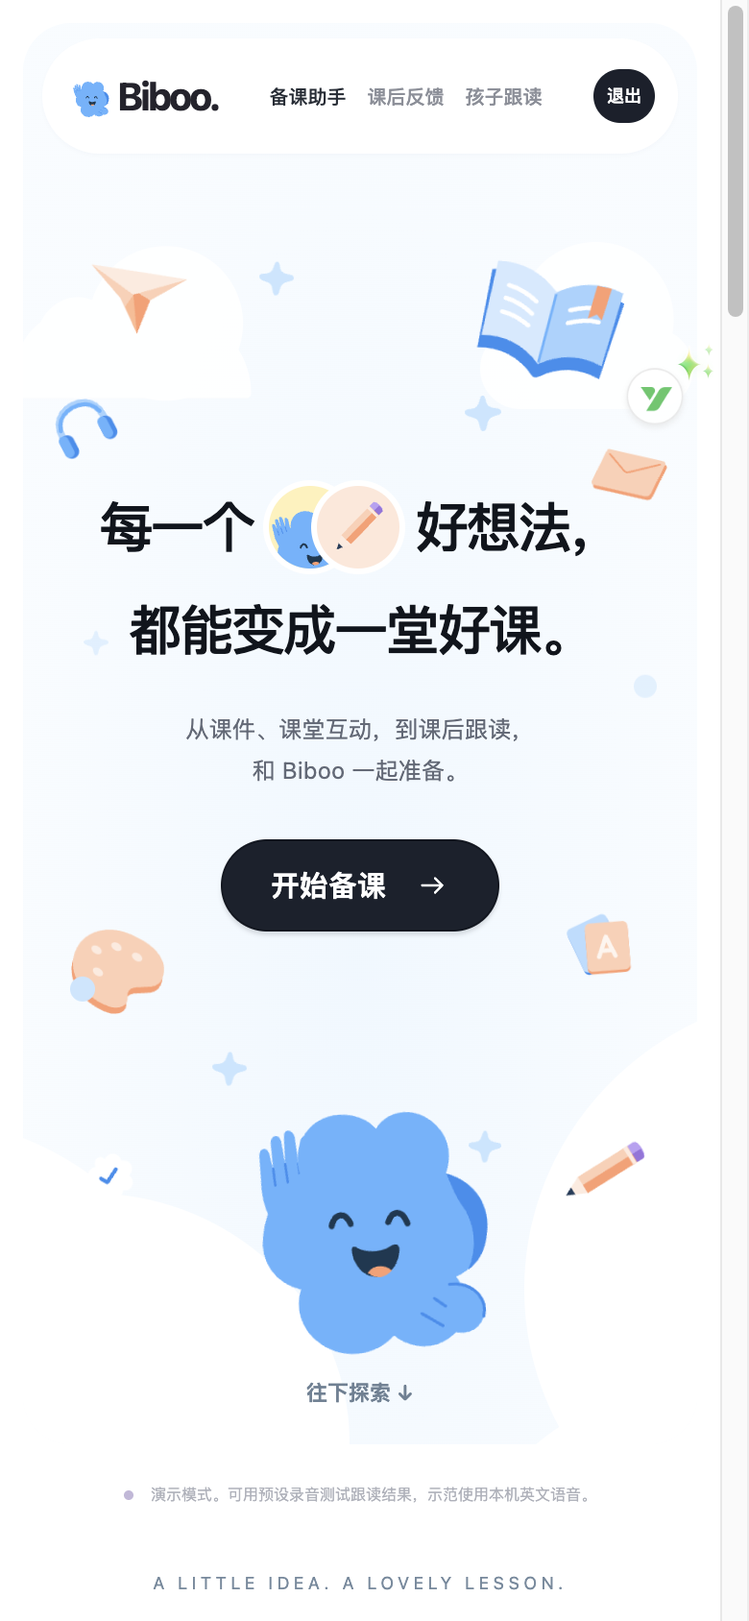
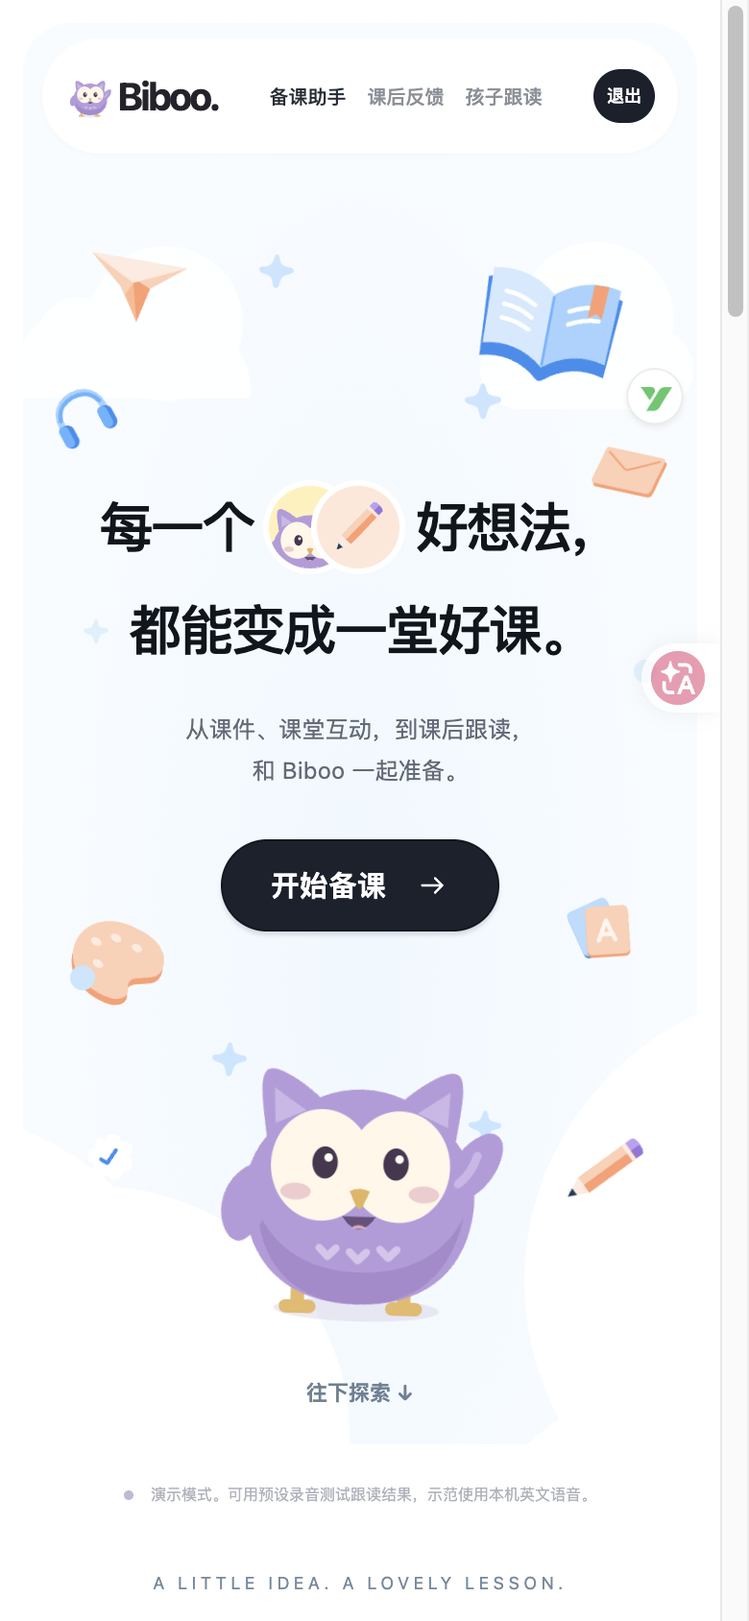
Restore Biboo owl identity while preserving scene interactions

diff --git a/backend/static/index.html b/backend/static/index.html
@@ -2028,7 +2028,7 @@ body.is-studio-home .role-tabs a[aria-current=page] {color:#252c35;background:no
 body.is-studio-home .role-tabs a svg {display:none;}
 body.is-studio-home #mode {position:absolute;top:calc(var(--scene-height) + 20px);right:50%;transform:translateX(50%);z-index:2;font-size:10px;width:max-content;max-width:85%;padding:0;opacity:.8;text-align:center;}
 body.is-studio-home #status:not(:empty) {position:fixed;top:100px;left:50%;transform:translateX(-50%);z-index:20;border-radius:20px;padding:10px 20px;background:#fff;box-shadow:0 5px 30px #1b263510;}
-.scene-hero {--scene-x:0px;--scene-y:0px;--scene-scroll:0px;position:relative;isolation:isolate;min-height:840px;height:var(--scene-height);margin:0;border-radius:32px;background:radial-gradient(ellipse at 50% 65%,#eff8ff 0%,#f8fcff 72%);overflow:hidden;text-align:center;}
+.scene-hero {--scene-x:0px;--scene-y:0px;--scene-scroll:0px;position:relative;isolation:isolate;min-height:840px;height:var(--scene-height);margin:0;border-radius:32px;background:radial-gradient(ellipse at 50% 65%,#eff8ff 0%,#f8fcff 72%);overflow:clip;text-align:center;}
 .scene-copy {position:relative;z-index:3;padding-top:240px;max-width:850px;margin:0 auto;pointer-events:none;}
 .scene-copy h2 {margin:0;color:#10151d;font-size:clamp(40px,3.55vw,52px);font-weight:500;letter-spacing:-1.8px;line-height:1.35;}
 .scene-heading-line {display:flex;align-items:center;justify-content:center;white-space:nowrap;gap:13px;}
@@ -2064,15 +2064,15 @@ body.is-studio-home #status:not(:empty) {position:fixed;top:100px;left:50%;trans
 .scene-star {--float:6px;width:24px;opacity:.75;}.scene-star svg {fill:#b9dfff;}.scene-star-one {left:22%;top:115px;--angle:12deg;--delay:-3s;--depth:.05;}.scene-star-two {right:21%;top:130px;--angle:-10deg;--delay:-1s;--depth:.03;}.scene-star-three {left:12%;top:250px;--angle:16deg;--delay:-5s;--depth:.08;}.scene-star-four {right:36%;bottom:175px;--angle:18deg;--delay:-2s;--depth:.1;}.scene-star-five {left:36%;bottom:110px;--angle:-8deg;--delay:-3s;--depth:.14;}
 .scene-dot {width:20px;height:20px;border-radius:50%;background:#c9e6ff;}.scene-dot-one {left:11.5%;bottom:290px;--depth:.09;}.scene-dot-two {right:12.3%;top:430px;--depth:.11;width:20px;height:20px;}.scene-dot-three {right:15%;top:318px;width:10px;height:10px;--depth:.09;}
 .scene-mascot {--mascot-x:0px;--mascot-y:0px;position:absolute;left:calc(50% - 117px);bottom:100px;width:234px;padding:0;border:0;border-radius:0;background:none;box-shadow:none;z-index:3;transform:translate(var(--mascot-x),calc(var(--mascot-y) + var(--scene-scroll)*.08));cursor:pointer;}
-.scene-mascot:hover,.scene-mascot:active,.scene-mascot:focus-visible {background:none;box-shadow:none;}.scene-mascot svg {width:100%;height:auto;overflow:visible;display:block;}.scene-mascot .mascot-float {display:block;animation:scene-bob 6s ease-in-out infinite;}
-.scene-mascot .scene-wave {transform-box:view-box;transform-origin:88px 144px;animation:scene-wave 4.8s ease-in-out infinite;}
+.scene-mascot:hover,.scene-mascot:active,.scene-mascot:focus-visible {background:none;box-shadow:none;}.scene-mascot svg {width:100%;height:auto;overflow:visible;display:block;}.scene-mascot .buddy-blink {animation:studio-blink 7s ease-in-out -1.7s infinite;}.scene-mascot .mascot-float {display:block;animation:scene-bob 6s ease-in-out infinite;}
+.scene-mascot .scene-wave {transform-box:view-box;transform-origin:155px 104px;animation:scene-wave 4.8s ease-in-out infinite;}
 .scene-mascot .scene-face {transform:translate(var(--face-x,0px),var(--face-y,0px));transition:transform .25s;}
 .scene-mascot.is-hello .scene-wave,.scene-mascot:hover .scene-wave,.scene-mascot:focus-visible .scene-wave {animation:scene-wave-hello .65s ease-in-out infinite;}
 .scene-mascot.is-hello .mascot-float {animation:scene-jump .7s cubic-bezier(.3,.8,.3,1);}
 .scene-mascot-caption {position:absolute;left:50%;bottom:99%;transform:translate(-50%,8px);opacity:0;white-space:nowrap;background:#fff;color:#436a8b;border-radius:18px;padding:9px 15px;font-size:12px;transition:opacity .25s,transform .25s;pointer-events:none;}
 .scene-mascot:hover .scene-mascot-caption,.scene-mascot:focus-visible .scene-mascot-caption,.scene-mascot.is-hello .scene-mascot-caption {opacity:1;transform:translate(-50%,0);}
 .scene-bottom-link {position:absolute;left:50%;bottom:12px;transform:translateX(-50%);z-index:4;background:none;border:0;box-shadow:none;color:#6c8194;font-size:11px;padding:5px 12px;min-height:30px;}.scene-bottom-link:hover {background:#fff;color:#2785ce;}
-.scene-hero.is-motion-paused .prop-float,.scene-hero.is-motion-paused .mascot-float,.scene-hero.is-motion-paused .scene-wave {animation-play-state:paused;}
+.scene-hero.is-motion-paused .prop-float,.scene-hero.is-motion-paused .mascot-float,.scene-hero.is-motion-paused .scene-wave,.scene-hero.is-motion-paused .buddy-blink {animation-play-state:paused;}
 @keyframes scene-drift {0%,100% {transform:translateY(0) rotate(-2deg);}50% {transform:translateY(calc(var(--float)*-1)) rotate(3deg);}}
 @keyframes scene-bob {0%,100% {transform:translateY(0) rotate(-3deg);}50% {transform:translateY(-10px) rotate(2deg);}}
 @keyframes scene-wave {0%,15%,100% {transform:rotate(0deg);}3%,9% {transform:rotate(14deg);}6%,12% {transform:rotate(-11deg);}}
@@ -2091,7 +2091,7 @@ body.is-studio-home #status:not(:empty) {position:fixed;top:100px;left:50%;trans
 @media(max-width:760px) {body.is-studio-home {--scene-height:780px;padding:12px 12px 45px;}body.is-studio-home .sidebar {width:calc(100% - 30px);top:8px;min-height:60px;padding:8px 16px;gap:12px;}body.is-studio-home .role-tabs {margin:0 auto;gap:12px;}body.is-studio-home .role-tabs a {font-size:11px;}body.is-studio-home .sidebar #logout {font-size:10px;padding:5px 10px;min-height:31px;}body.is-studio-home .sidebar .brand strong {font-size:23px;}.scene-hero {min-height:780px;height:780px;border-radius:25px;}.scene-copy {padding-top:255px;max-width:600px;}.scene-copy h2 {font-size:35px;letter-spacing:-1.5px;}.scene-heading-line {gap:8px;}.scene-badges {width:91px;height:58px;margin:0;}.scene-badge {width:58px;height:58px;border-width:4px;}.scene-badge + .scene-badge {margin-left:-25px;}.scene-copy>p {max-width:340px;padding:0 10px;margin:22px auto 27px;font-size:13px;}.scene-primary {min-height:48px;font-size:15px;padding:10px 25px;}.prop-plane {left:9%;top:118px;width:61px;}.prop-book {right:9%;top:120px;width:91px;}.prop-headphones {top:340px;left:2%;width:53px;}.prop-envelope {top:380px;right:2%;width:63px;}.prop-palette {left:10%;top:520px;width:75px;}.prop-card {right:14%;top:500px;width:51px;}.prop-pencil {right:10%;bottom:95px;width:71px;}.prop-check {left:14%;bottom:100px;width:45px;}.scene-star-one {left:35%;top:130px;width:18px;}.scene-star-two {right:29%;top:195px;width:19px;}.scene-star-three {left:8%;top:250px;width:19px;}.scene-star-four {right:29%;bottom:142px;width:17px;}.scene-star-five {left:29%;bottom:198px;width:18px;}.scene-dot-one {left:7%;bottom:230px;width:13px;height:13px;}.scene-dot-two {right:9%;top:320px;width:12px;height:12px;}.scene-dot-three {display:none;}.scene-cloud-small {left:-30px;top:140px;transform:scale(.7);}.scene-cloud-top {right:-35px;top:145px;transform:scale(.6);}.scene-cloud-left {width:300px;height:270px;bottom:-100px;left:-210px;}.scene-cloud-left::before {width:200px;height:190px;left:150px;top:150px;}.scene-cloud-right {width:320px;height:310px;right:-230px;bottom:-75px;}.scene-cloud-right::before {width:210px;height:210px;right:140px;top:210px;}.scene-mascot {width:186px;left:calc(50% - 93px);bottom:44px;}.lesson-workbench {margin:65px auto;padding:0 14px;}.lesson-workbench h2 {font-size:29px;}.lesson-workbench .workbench-lead {font-size:12px;}.lesson-workbench #assistant-prompt {font-size:16px;}.lesson-workbench .assistant-composer {padding:18px 16px 13px;}.lesson-workbench .assistant-examples>span {display:none;}.lesson-workbench .assistant-examples button {font-size:11px;}.lesson-workbench .assistant-help {font-size:10px;}}
 @media(max-width:500px) {body.is-studio-home .sidebar {width:calc(100% - 20px);padding:8px 12px;gap:9px;}body.is-studio-home .sidebar .brand strong {font-size:20px;}.sidebar .brand-mark {width:24px;height:28px;}.sidebar .brand-mark svg {width:26px;height:29px;}body.is-studio-home .role-tabs {gap:11px;}body.is-studio-home .role-tabs a {font-size:10px;}body.is-studio-home .sidebar #logout {font-size:9px;min-height:28px;padding:4px 7px;}body.is-studio-home {--scene-height:740px;}body.is-studio-home #mode {font-size:8px;}.scene-hero {min-height:740px;height:740px;}.scene-copy {padding:238px 10px 0;}.scene-copy h2 {font-size:28px;letter-spacing:-1.2px;}.scene-heading-line {gap:5px;}.scene-heading-line + .scene-heading-line {margin-top:10px;}.scene-badges {width:74px;height:49px;}.scene-badge {width:49px;height:49px;border-width:3px;}.scene-badge + .scene-badge {margin-left:-24px;}.scene-copy>p {max-width:265px;font-size:12px;line-height:1.8;margin:22px auto 25px;}.prop-headphones {left:3%;top:200px;width:43px;}.prop-envelope {right:3%;top:212px;width:47px;}.prop-palette {left:5%;top:465px;width:65px;}.prop-card {right:8%;top:465px;width:45px;}.prop-pencil {right:5%;bottom:100px;width:62px;}.prop-check {left:7%;bottom:110px;width:40px;}.scene-star-three {left:9%;top:320px;width:13px;opacity:.4;}.scene-dot-two {right:6%;top:340px;opacity:.5;}.scene-mascot {width:176px;left:calc(50% - 88px);bottom:36px;}.scene-star-five {left:28%;bottom:180px;}.lesson-workbench {padding:0 7px;}.lesson-workbench h2 {font-size:26px;}.lesson-workbench .workbench-overline {font-size:9px;}.lesson-workbench .workbench-lead {font-size:12px;}.lesson-workbench .composer-tool {font-size:11px;padding:7px 6px;}.lesson-workbench .assistant-submit {font-size:12px;padding:9px 15px;gap:12px;}}
 @media(max-width:360px) {body.is-studio-home .sidebar {gap:5px;padding:8px;}body.is-studio-home .role-tabs {gap:8px;}body.is-studio-home .role-tabs a {font-size:9px;}.sidebar .brand-mark {display:none;}.scene-copy h2 {font-size:25px;}.scene-badges {width:66px;height:43px;}.scene-badge {width:43px;height:43px;}.scene-badge + .scene-badge {margin-left:-20px;}.scene-heading-line {gap:4px;}.lesson-workbench .assistant-examples {gap:5px;}.lesson-workbench .assistant-examples button {font-size:10px;padding:7px 9px;}}
-@media(prefers-reduced-motion:reduce) {.scene-prop .prop-float,.scene-mascot .mascot-float,.scene-mascot .scene-wave {animation:none!important;}.scene-prop,.scene-cloud,.scene-mascot {transform:none!important;}.scene-prop .prop-art,.scene-badge,.scene-primary,.scene-mascot .scene-face,.scene-mascot-caption {transition:none;}.scene-prop:hover .prop-art {transform:rotate(var(--angle));}.scene-primary:hover {transform:none;}.scene-badge:hover {transform:none;}.scene-badge + .scene-badge:hover {transform:rotate(11deg);}}
+@media(prefers-reduced-motion:reduce) {.scene-prop .prop-float,.scene-mascot .mascot-float,.scene-mascot .scene-wave,.scene-mascot .buddy-blink {animation:none!important;}.scene-prop,.scene-cloud,.scene-mascot {transform:none!important;}.scene-prop .prop-art,.scene-badge,.scene-primary,.scene-mascot .scene-face,.scene-mascot-caption {transition:none;}.scene-prop:hover .prop-art {transform:rotate(var(--angle));}.scene-primary:hover {transform:none;}.scene-badge:hover {transform:none;}.scene-badge + .scene-badge:hover {transform:rotate(11deg);}}
 
 .mobile-only {display:none;}@media(max-width:760px){.mobile-only{display:initial;}}
 </style>
@@ -2104,23 +2104,36 @@ body.is-studio-home #status:not(:empty) {position:fixed;top:100px;left:50%;trans
 <symbol id="b-scene-check" viewBox="0 0 200 200"><path d="M100 53C114 33 141 43 141 65C165 65 174 92 154 106C169 126 152 150 130 142C124 164 95 166 87 144C64 153 45 129 60 109C39 96 47 68 72 67C69 44 92 37 100 53Z" fill="#FFF"/><path d="M80 100L94 113L123 84" fill="none" stroke="#318FF0" stroke-width="10" stroke-linecap="round" stroke-linejoin="round"/>
 </symbol>
 
-<symbol id="b-scene-boo" viewBox="0 0 280 260">
- <g class="scene-wave" style="transform-origin:88px 144px"><g transform="translate(88 144) scale(.82) translate(-88 -144)">
- <path d="M91 153C62 145 46 120 41 94L35 70C33 62 40 58 44 65L51 80L44 55C42 47 50 43 54 51L62 73L56 46C54 38 63 36 67 45L75 70L73 49C72 40 81 40 84 49L90 75L96 65C102 57 109 62 105 69L93 93C88 104 94 120 107 126Z" fill="#63B4FF"/>
- <path d="M51 80L56 96M62 73L68 91M75 70L80 86" fill="none" stroke="#318FF0" stroke-width="2.5" stroke-linecap="round"/>
- </g></g>
- <path d="M92 91C86 67 102 44 127 44C140 44 150 49 157 57C169 40 193 41 207 57C218 69 218 84 213 97C237 105 249 126 244 150C241 166 230 178 217 183C231 203 225 226 204 236C189 243 173 238 163 229C146 246 119 247 101 232C87 221 82 203 88 187C67 181 55 162 59 141C62 119 75 102 92 91Z" fill="#63B4FF"/>
- <path d="M213 97C236 105 249 126 244 150C242 163 236 172 227 178C236 161 235 138 224 123C220 117 217 107 213 97Z" fill="#318FF0"/>
- <g class="scene-face" style="transform-origin:153px 144px">
- <path d="M116 136C119 125 128 124 132 135M163 135C167 124 176 126 179 137" fill="none" stroke="#193952" stroke-width="5" stroke-linecap="round"/>
- <path d="M135 154C140 158 153 161 164 155C169 152 172 154 171 160C169 174 158 183 147 179C139 177 133 168 132 160C131 155 132 153 135 154Z" fill="#193952"/>
- <path d="M144 176C149 169 159 170 164 175C158 181 151 182 144 176Z" fill="#FF9E70"/>
- </g>
- <g class="scene-rest-hand" style="transform-origin:206px 198px">
- <path d="M211 189C229 187 243 202 238 217C234 230 219 233 207 226L187 212C181 209 181 202 185 199C189 196 192 198 198 200L190 190C185 182 193 178 199 184L207 192Z" fill="#63B4FF"/>
- <path d="M211 189C229 187 243 202 238 217M187 212L204 223M198 200L207 207" fill="none" stroke="#318FF0" stroke-width="2.5" stroke-linecap="round"/>
- </g>
-</symbol>
+<symbol id="b-scene-boo" viewBox="0 0 200 200">
+      <g class="buddy-body">
+        <ellipse cx="100" cy="176" rx="49" ry="7" fill="#D6C8E5" opacity=".38"/>
+        <path d="M65 164v11m-7 0h14m56-11v11m-7 0h14" fill="none" stroke="#E6B968" stroke-width="8" stroke-linecap="round"/>
+        <path d="M44 75c-2-16-7-38 1-40 6-2 21 8 30 16 16-7 34-7 50 0 9-8 24-18 30-16 8 2 3 24 1 40 10 12 14 29 11 46-5 32-28 52-67 52s-62-20-67-52c-3-17 1-34 11-46Z" fill="#B79BDD"/>
+        <path d="M40 119c11 23 32 35 61 35s51-12 61-35c-6 34-27 54-62 54s-57-20-60-54Z" fill="#A88ACD"/>
+        <path d="m48 46 19 13-18 8m103-21-19 13 18 8" fill="#CDB7E9"/>
+        <path d="M35 92c-16 8-20 27-14 39 3 6 8 8 12 5 8-5 17-21 18-34 1-9-7-15-16-10Z" fill="#B79BDD"/>
+        <g class="buddy-wave scene-wave" style="transform-origin:155px 104px">
+          <path d="M152 98c1-12 10-23 19-27 7-4 13 0 13 7 0 12-11 28-22 31-6 2-11-4-10-11Z" fill="#B79BDD"/>
+          <path d="M169 83c-2 7-6 13-11 17" fill="none" stroke="#CDB7E9" stroke-width="5" stroke-linecap="round"/>
+        </g>
+        <ellipse cx="77" cy="91" rx="30" ry="33" fill="#FFF7E8"/>
+        <ellipse cx="123" cy="91" rx="30" ry="33" fill="#FFF7E8"/>
+        <g class="buddy-blink" style="transform-origin:100px 91px">
+          <g class="buddy-eyes scene-face">
+            <ellipse cx="79" cy="91" rx="7.5" ry="9.5" fill="#483650"/>
+            <ellipse cx="121" cy="91" rx="7.5" ry="9.5" fill="#483650"/>
+            <circle cx="81" cy="88" r="2.5" fill="#FFFEF8"/>
+            <circle cx="123" cy="88" r="2.5" fill="#FFFEF8"/>
+          </g>
+        </g>
+        <ellipse cx="62" cy="107" rx="9" ry="5" fill="#F2CCCF"/>
+        <ellipse cx="138" cy="107" rx="9" ry="5" fill="#F2CCCF"/>
+        <path d="M94 106q6-3 12 0l-4 9q-2 3-4 0Z" fill="#E4B45D"/>
+        <path d="M90 121q10 15 20 0Z" fill="#6A507C"/>
+        <path d="M95 128q5-4 10 0" fill="#E6ACBF"/>
+        <path d="m77 140 5 5 5-5m8 2 5 5 5-5m8-2 5 5 5-5" fill="none" stroke="#D9C4EC" stroke-width="4.5" stroke-linecap="round" stroke-linejoin="round"/>
+      </g>
+    </symbol>
 <symbol id="b-scene-plane" viewBox="0 0 200 200"><path d="M22 37L180 87L112 113L81 166L62 101Z" fill="#FFCFB4"/><path d="M22 37L112 113L81 166L85 99Z" fill="#FF9E70"/><path d="M22 37L85 99L180 87Z" fill="#FFEADF"/><path d="M85 99L81 166L68 117Z" fill="#FFBA91"/>
 </symbol>
 <symbol id="b-scene-book" viewBox="0 0 200 200"><path d="M22 59C47 50 75 55 100 75C125 55 153 50 178 59L172 150C147 143 124 148 104 165C102 167 98 167 96 165C76 148 53 143 28 150Z" fill="#318FF0"/><path d="M26 48C53 42 78 48 100 66L100 151C79 134 55 128 29 135Z" fill="#D4EAFF"/><path d="M100 66C122 48 147 42 174 48L171 135C145 128 121 134 100 151Z" fill="#A5D3FF"/><path d="M100 68V149" fill="none" stroke="#63B4FF" stroke-width="3"/><path d="M45 72C57 72 69 76 80 82M45 87C57 87 68 91 79 97M45 103C58 103 67 106 78 111M120 82C131 76 143 72 155 72M121 97C132 91 143 87 155 87" fill="none" stroke="#FFF" stroke-width="5" stroke-linecap="round"/><path d="M143 47L142 86L151 79L158 84L160 46Z" fill="#FF9E70"/>
@@ -2184,10 +2197,23 @@ body.is-studio-home #status:not(:empty) {position:fixed;top:100px;left:50%;trans
           <path d="m7 12 3 3 7-7"/>
         </g>
       </symbol>
-      <symbol id="biboo-buddy" viewBox="0 0 280 260"><use href="#b-scene-boo"/></symbol>
+      <symbol id="biboo-buddy" viewBox="0 0 160 140">
+        <ellipse cx="81" cy="126" rx="48" ry="7" fill="#d9c9ec" opacity=".45"/>
+        <path d="m36 61-4-39 34 18M124 61l4-39-34 18" fill="#b99adc"/>
+        <ellipse cx="80" cy="77" rx="49" ry="47" fill="#b99adc"/>
+        <path d="M39 87c9 14 21 22 41 22s32-8 41-22c-2 25-16 38-41 38S41 112 39 87Z" fill="#ac8bd1"/>
+        <ellipse cx="62" cy="70" rx="22" ry="25" fill="#f7f1fc"/>
+        <ellipse cx="98" cy="70" rx="22" ry="25" fill="#f7f1fc"/>
+        <path d="M54 72q8-11 16 0m20 0q8-11 16 0" fill="none" stroke="#776092" stroke-width="4" stroke-linecap="round"/>
+        <path d="m75 80 5 8 5-8" fill="#f1c56b"/>
+        <ellipse cx="47" cy="85" rx="7" ry="4" fill="#e4b9d3"/>
+        <ellipse cx="113" cy="85" rx="7" ry="4" fill="#e4b9d3"/>
+        <path d="m49 121 10-8 5 9m32 0 6-9 10 8" fill="none" stroke="#d7b774" stroke-width="5" stroke-linecap="round"/>
+        <path d="m24 71 8 9-4 18m108-28-8 10 5 17" fill="none" stroke="#b99adc" stroke-width="12" stroke-linecap="round"/>
+      </symbol>
 
 
-    <symbol id="b-buddy-boo" viewBox="0 0 280 260"><use href="#b-scene-boo"/></symbol>
+    <symbol id="b-buddy-boo" viewBox="0 0 200 200"><use href="#b-scene-boo"/></symbol>
     <symbol id="b-buddy-hui" viewBox="0 0 200 200"><use href="#b-scene-book"/></symbol>
     <symbol id="b-buddy-lang" viewBox="0 0 200 200"><use href="#b-scene-headphones"/></symbol>
     <symbol id="b-buddy-ya" viewBox="0 0 200 200"><use href="#b-scene-check"/></symbol>
@@ -2317,23 +2343,36 @@ body.is-studio-home #status:not(:empty) {position:fixed;top:100px;left:50%;trans
             <p>从课件、课堂互动，到课后跟读，<br class="mobile-only">和 Biboo 一起准备。</p>
             <button type="button" id="scene-start" class="scene-primary">开始备课<svg aria-hidden="true" viewBox="0 0 24 24"><path d="M5 12h14m-5-5 5 5-5 5" fill="none" stroke="currentColor" stroke-width="1.7" stroke-linecap="round" stroke-linejoin="round"/></svg></button>
           </div>
-          <button type="button" id="scene-mascot" class="scene-mascot" aria-label="和 Biboo 打个招呼"><span class="scene-mascot-caption">嗨，今天想教点什么？</span><span class="mascot-float"><svg viewBox="0 0 280 260" aria-hidden="true">
- <g class="scene-wave" style="transform-origin:88px 144px"><g transform="translate(88 144) scale(.82) translate(-88 -144)">
- <path d="M91 153C62 145 46 120 41 94L35 70C33 62 40 58 44 65L51 80L44 55C42 47 50 43 54 51L62 73L56 46C54 38 63 36 67 45L75 70L73 49C72 40 81 40 84 49L90 75L96 65C102 57 109 62 105 69L93 93C88 104 94 120 107 126Z" fill="#63B4FF"/>
- <path d="M51 80L56 96M62 73L68 91M75 70L80 86" fill="none" stroke="#318FF0" stroke-width="2.5" stroke-linecap="round"/>
- </g></g>
- <path d="M92 91C86 67 102 44 127 44C140 44 150 49 157 57C169 40 193 41 207 57C218 69 218 84 213 97C237 105 249 126 244 150C241 166 230 178 217 183C231 203 225 226 204 236C189 243 173 238 163 229C146 246 119 247 101 232C87 221 82 203 88 187C67 181 55 162 59 141C62 119 75 102 92 91Z" fill="#63B4FF"/>
- <path d="M213 97C236 105 249 126 244 150C242 163 236 172 227 178C236 161 235 138 224 123C220 117 217 107 213 97Z" fill="#318FF0"/>
- <g class="scene-face" style="transform-origin:153px 144px">
- <path d="M116 136C119 125 128 124 132 135M163 135C167 124 176 126 179 137" fill="none" stroke="#193952" stroke-width="5" stroke-linecap="round"/>
- <path d="M135 154C140 158 153 161 164 155C169 152 172 154 171 160C169 174 158 183 147 179C139 177 133 168 132 160C131 155 132 153 135 154Z" fill="#193952"/>
- <path d="M144 176C149 169 159 170 164 175C158 181 151 182 144 176Z" fill="#FF9E70"/>
- </g>
- <g class="scene-rest-hand" style="transform-origin:206px 198px">
- <path d="M211 189C229 187 243 202 238 217C234 230 219 233 207 226L187 212C181 209 181 202 185 199C189 196 192 198 198 200L190 190C185 182 193 178 199 184L207 192Z" fill="#63B4FF"/>
- <path d="M211 189C229 187 243 202 238 217M187 212L204 223M198 200L207 207" fill="none" stroke="#318FF0" stroke-width="2.5" stroke-linecap="round"/>
- </g>
-</svg></span></button>
+          <button type="button" id="scene-mascot" class="scene-mascot" aria-label="和 Biboo 打个招呼"><span class="scene-mascot-caption">嗨，今天想教点什么？</span><span class="mascot-float"><svg viewBox="0 0 200 200" aria-hidden="true">
+      <g class="buddy-body">
+        <ellipse cx="100" cy="176" rx="49" ry="7" fill="#D6C8E5" opacity=".38"/>
+        <path d="M65 164v11m-7 0h14m56-11v11m-7 0h14" fill="none" stroke="#E6B968" stroke-width="8" stroke-linecap="round"/>
+        <path d="M44 75c-2-16-7-38 1-40 6-2 21 8 30 16 16-7 34-7 50 0 9-8 24-18 30-16 8 2 3 24 1 40 10 12 14 29 11 46-5 32-28 52-67 52s-62-20-67-52c-3-17 1-34 11-46Z" fill="#B79BDD"/>
+        <path d="M40 119c11 23 32 35 61 35s51-12 61-35c-6 34-27 54-62 54s-57-20-60-54Z" fill="#A88ACD"/>
+        <path d="m48 46 19 13-18 8m103-21-19 13 18 8" fill="#CDB7E9"/>
+        <path d="M35 92c-16 8-20 27-14 39 3 6 8 8 12 5 8-5 17-21 18-34 1-9-7-15-16-10Z" fill="#B79BDD"/>
+        <g class="buddy-wave scene-wave" style="transform-origin:155px 104px">
+          <path d="M152 98c1-12 10-23 19-27 7-4 13 0 13 7 0 12-11 28-22 31-6 2-11-4-10-11Z" fill="#B79BDD"/>
+          <path d="M169 83c-2 7-6 13-11 17" fill="none" stroke="#CDB7E9" stroke-width="5" stroke-linecap="round"/>
+        </g>
+        <ellipse cx="77" cy="91" rx="30" ry="33" fill="#FFF7E8"/>
+        <ellipse cx="123" cy="91" rx="30" ry="33" fill="#FFF7E8"/>
+        <g class="buddy-blink" style="transform-origin:100px 91px">
+          <g class="buddy-eyes scene-face">
+            <ellipse cx="79" cy="91" rx="7.5" ry="9.5" fill="#483650"/>
+            <ellipse cx="121" cy="91" rx="7.5" ry="9.5" fill="#483650"/>
+            <circle cx="81" cy="88" r="2.5" fill="#FFFEF8"/>
+            <circle cx="123" cy="88" r="2.5" fill="#FFFEF8"/>
+          </g>
+        </g>
+        <ellipse cx="62" cy="107" rx="9" ry="5" fill="#F2CCCF"/>
+        <ellipse cx="138" cy="107" rx="9" ry="5" fill="#F2CCCF"/>
+        <path d="M94 106q6-3 12 0l-4 9q-2 3-4 0Z" fill="#E4B45D"/>
+        <path d="M90 121q10 15 20 0Z" fill="#6A507C"/>
+        <path d="M95 128q5-4 10 0" fill="#E6ACBF"/>
+        <path d="m77 140 5 5 5-5m8 2 5 5 5-5m8-2 5 5 5-5" fill="none" stroke="#D9C4EC" stroke-width="4.5" stroke-linecap="round" stroke-linejoin="round"/>
+      </g>
+    </svg></span></button>
           <p id="studio-speech" class="sr-only" role="status" aria-live="polite"></p>
           <button type="button" id="scene-explore" class="scene-bottom-link">往下探索 ↓</button>
         </section>

diff --git a/docs/项目状态.md b/docs/项目状态.md
@@ -3,7 +3,7 @@
 ## 当前阶段
 - 阶段：2 后端 MVP（第 2 阶段：2-2 跟读评测与分流）
 - 最近更新：2026-11-08
-- 上次停在：产品经理明确拒绝四角色围绕输入框的上一版，认为未达到 Genie Studio 的首屏构图与插画质感。本轮改为两侧无脸扁平教学道具、底部单蓝色角色、黑色标题内嵌徽章和「开始备课」主按钮；输入移至下方工作区，原预览、课程和草稿保护保留。补充鼠标局部推移与惯性回位、云层和道具滚动视差、缓慢漂浮和独立挥手。工程与浏览器检查已完成，等待本轮视觉体验；正式阶段 2-2 真实口语冒烟仍待验。
+- 上次停在：用户指出参考站 IP 造型被错误带入，明确保留原有猫头鹰。本轮从已有版本恢复 Biboo 紫色猫头鹰的完整原造型，覆盖首屏角色、标题徽章、导航和原页面插画；保留背景布局、视差和功能入口。已核对桌面/手机显示、挥翅和瞳孔回应；正式阶段 2-2 真实口语冒烟仍待验。
 
 ## 决策台账（D1–D9 固定；D10 起是本产品自己的业务决策，不超过 10 项）
 | 编号 | 决策 | 状态 | 选定结论 | 依据 |
@@ -20,7 +20,7 @@
 | D10 | 孩子端形态 | 已定 | 手机网页（家长在微信里打开老师发的链接），不做小程序 | 补全清单问题 1，按推荐 |
 | D11 | 第一版课件范围 | 已更新 | 上传教案、讲义或旧课件后提取文字，可直接导出可编辑 PPTX，也可将建议目标带入备课表单。老师确认的目标同时用于生成可编辑的课堂活动和跟读作业。儿童互动与文字整理两种输出范围见 D15。 | 产品经理 2026-11-05 补充本机 Demo 要包含上传材料后生成课堂 PPT 的流程；2026-11-06 补充儿童课件要求 |
 | D12 | 开发与运行环境 | 已定 | 按本次接手请求在 Mac 本机继续开发，只做 Web；Python 3.12 的依赖已安装。真实模型凭证与网络由冒烟实测，阶段仍待验。 | Mac 工具包接手与本机安装记录 |
-| D13 | Demo 视觉方向 | 已更新 | 按 Genie Studio 首屏截图重新组织场景：两侧无脸扁平教学道具、单蓝色 Biboo 角色、黑色标题内嵌徽章和单一「开始备课」主按钮。道具具有鼠标局部推移、惯性回位和滚动视差，角色独立挥手；保留减少动态、页面隐藏和弹窗暂停。输入移至下方工作区，原功能保留。新维护源为 biboo-scene-symbols.svg / scene-preview.svg，旧团队素材仅作历史保留；本轮视觉待用户验收。 | 产品经理 2026-11-08 用参考站首屏截图明确否定旧四角色造型与背景效果，要求按整体构图和动效重做；仅改 Biboo |
+| D13 | Demo 视觉方向与 IP 边界 | 已定 | Biboo 沿用原有紫色猫头鹰 IP；参考站仅用于布局、背景层次与交互方式，不复制或替换成参考站角色。保留场景首屏、教学道具、鼠标与滚动视差，原猫头鹰承担挥翅和视线回应。 | 用户 2026-11-08 明确纠正：原猫头鹰很好，IP 造型不能抄人家；仅改 Biboo |
 | D14 | GitHub 同步与入口 | 已定 | 使用 `buu206/biboo-demo` 私有仓库。仓库 About 的 Website 指向现有本机 Demo `http://127.0.0.1:18766/`。后续完成并验证的项目更新持续同步，不上传密钥、运行数据和虚拟环境。 | 产品经理要求先私有上传本版、后续继续同步，并以截图确认 About 网页链接位置；GitHub 对 biboo 名称校验报错，采用已通过校验的 biboo-demo |
 | D15 | 儿童课堂 PPT | 已定 | 网页默认生成适合 6–10 岁的儿童互动 PPT，使用随项目保存的卡通插画、大字短句、猜词点击与分步揭晓、动作和同伴活动，教师提示放备注。重点词最多 4 个，来自上传材料或已保存课程；保留文字整理模式。当前采用本机教学模板和预生成插画，导出时不调用大模型或图像服务，原图、版式和动画不保留。 | 产品经理 2026-11-06 验收《My sea creature》后指出原课件过于正式、没有互动，要求适合 6–10 岁、有卡通形象和课堂互动的教学 PPT |
 | D16 | AI 首页与课程操作 | 已更新 | 首屏展示 Biboo 的教学场景，「开始备课」滚动至输入工作区：描述想法、选择示例或上传材料，已有课程放在下方。实际操作允许清晰的确认与生成步骤；整理出的教学目标由老师确认后生成，发布由老师主动点击。保留独立 PPT、孩子跟读、老师复核和按需编辑。当前文字整理为规则提取，不冒充大模型理解。 | 产品经理 2026-11-08 要求首页有 AI 感、实际操作可有流程，并进一步指定参考站首屏场景与构图 |
@@ -32,7 +32,7 @@
 儿童互动海洋样例共 16 页，其中 15 页正常放映、1 页隐藏重试。课堂猜词使用 PPT 内部链接，老师可点击选项或顺序翻页揭晓；备注包含带课提示和提取后的原材料。其他主题缺少匹配插画时，猫头鹰只作引导角色。当前实现不等于任意主题的自动配图或 AI 教案重写。
 
 ## 待确认问题
-- 产品经理要求儿童互动 PPT 先验收到这里，发作业单项已验收。本轮等待确认新首屏的整体构图、扁平道具、蓝色角色与背景交互是否符合参考方向；工程验证进行中，不沿用上一版测试结论宣布本轮通过。
+- 产品经理要求儿童互动 PPT 先验收到这里，发作业单项已验收。本轮恢复原有猫头鹰 IP，等待用户查看；背景布局、动效与业务功能沿用上一版。
 - 正式阶段 2-2 需复核已开通的腾讯云口语评测资源额度，准备读对、th 读错和嘈杂三类已获同意的成人录音，共 5–10 条。真实冒烟后按结果校准分流阈值，再按阶段闸门验收。手动 Demo 先用预设结果检查操作和分流。
 - D2 的量化标准待样例打分后确定。阶段 2-1 已确认验收通过，五份真实样例的分项评分待补。
 - 上线前核实语音合成服务的路由、数据驻留与所选模型可用性。
@@ -83,3 +83,5 @@
 - 2026-11-08：产品经理明确指出上一版缺少交互并要求更贴近参考站。本轮重做整屏角色场景与可操作示例，修复反馈入口未回页首、手机关键反馈可读性及减少动态遗漏；不将示例当作实际生成结果，等待用户体验。
 
 - 2026-11-08：产品经理再次明确拒绝四角色围绕输入框的首屏，指出背景场景与 IP 造型未达到参考站效果。本轮重做为无脸教学道具围绕单蓝角色的首屏，输入区下移，原预览与业务功能保留；场景新增鼠标局部推移、惯性回位和滚动视差。维护源转为 biboo-scene-symbols.svg / scene-preview.svg，旧团队素材保留。58/58 自动化、重启恢复与浏览器交互检查通过，本轮视觉待用户验收，阶段 2-2 真实口语冒烟继续待验。
+
+- 2026-11-08：用户明确保留原有猫头鹰 IP，指出更换为近似参考站角色越界。本轮恢复原 SVG 几何与配色，仅适配原翅膀和瞳孔的动画分组；项目内记明设计参考与品牌形象的边界。

diff --git a/README.md b/README.md
@@ -10,7 +10,7 @@ Biboo 帮英语老师用一份教学材料准备课堂 PPT 和跟读作业，再
 
 在 Biboo 产品目录运行 `backend/.venv/bin/python scripts/demo.py`。第一次运行或更新依赖后，先执行下方的依赖安装命令。老师用邀请码 `biboo-demo` 登录。[打开本机 Demo](http://127.0.0.1:18766/)
 
-老师端首屏参考 [Genie Studio](https://geniestudio.app/) 的场景构图：两侧是无脸的扁平教学道具，中央为黑色标题、内嵌图形徽章和「开始备课」按钮，底部是一个蓝色 Biboo 角色。道具缓慢漂浮，靠近鼠标时轻轻推移并惯性回位；云层与道具随滚动产生不同幅度的位移。蓝色角色独立挥手，点击会打招呼。系统开启「减少动态效果」时保持静态；页面隐藏、离开首屏或打开操作弹窗时暂停场景动画。
+老师端首屏参考 [Genie Studio](https://geniestudio.app/) 的场景构图：两侧是无脸的扁平教学道具，中央为黑色标题、内嵌图形徽章和「开始备课」按钮，底部是一个紫色猫头鹰 Biboo 角色。道具缓慢漂浮，靠近鼠标时轻轻推移并惯性回位；云层与道具随滚动产生不同幅度的位移。猫头鹰角色独立挥手，点击会打招呼。系统开启「减少动态效果」时保持静态；页面隐藏、离开首屏或打开操作弹窗时暂停场景动画。
 
 点「开始备课」会滚动到下方输入工作区：描述想法、选择示例或上传材料，整理出的主题和英文词汇先由老师确认，再生成课程。工作区后保留可操作的课堂课件、跟读与反馈示例：课件可翻页、猜词和揭晓，跟读可选词，反馈可筛选；示例下的主按钮进入实际功能。已有课程继续放在下方。进入课程后按课件、作业分别操作，默认预览，点击「修改内容」才展开编辑。顶部可进入「课后反馈」和「孩子跟读」。
 
@@ -95,3 +95,5 @@ AIHubMix 的默认模型为 `gpt-4o-mini-tts`，音色为 `coral`。`AIHUBMIX_TT
 在本机 `backend/.env` 中填写 `TENCENT_SOE_APP_ID`、`TENCENTCLOUD_SECRET_ID` 和 `TENCENTCLOUD_SECRET_KEY`，保留 `DEEPSEEK_API_KEY`，并设 `BIBOO_FAKE_MODELS=0`。凭证说明见腾讯云新版口语评测文档。[腾讯云快速入门](https://cloud.tencent.com/document/product/1774/107347)
 
 真实冒烟从产品目录运行 `backend/.venv/bin/python scripts/smoke_practice.py`，带 `--adult-consent` 和 5–10 个 `--case 类型=路径.wav` 参数，覆盖 `clean`、`wrong`、`noisy`。录音文本为 `think`，格式为 16 kHz 单声道 16 位 PCM WAV。结果和评分样例会写入 `docs/evidence/阶段2-2/`。
+
+本项目的 IP 沿用 Biboo 原有紫色猫头鹰。外部设计参考只用于布局、背景层次和交互方式，不替换或照搬他人的角色造型。

diff --git a/docs/evidence/阶段2-2/照着做清单.md b/docs/evidence/阶段2-2/照着做清单.md
@@ -35,12 +35,14 @@
 
 ## Biboo 场景首屏（2026-11-08 按参考截图重做）
 
-1. 打开 http://127.0.0.1:18766/?v=scene-3 。首页应是居中的黑色大标题、两枚圆形插画、两侧教学道具和底部单个蓝色 Biboo；原先四个角色围绕输入框的布局已替换。
+1. 打开 http://127.0.0.1:18766/?v=owl-4 。首页应是居中的黑色大标题、两枚圆形插画、两侧教学道具和底部原有紫色猫头鹰 Biboo；原先四个角色围绕输入框的布局已替换。
 2. 鼠标在首屏左右移动，观察道具与云层不同幅度的位移；靠近一个道具，它会轻微让开并转动，离开后缓缓归位。向下滚动时，云层与前景有不同速度的位移。
-3. 停在底部 Biboo 上，应挥手并出现问候；点一下会跳起回应。点击「开始备课」，页面滚到下一屏「下一堂课，想讲什么？」并聚焦输入框，不会自动提交。
+3. 停在底部猫头鹰 Biboo 上，应挥翅并出现问候；点一下会跳起回应。点击「开始备课」，页面滚到下一屏「下一堂课，想讲什么？」并聚焦输入框，不会自动提交。
 4. 输入备课想法，或选「海洋探险」后点「帮我准备」，确认目标后生成 Demo 课程；也可以点「上传材料」直接生成 PPT。发布仍由老师主动点击。
 5. 点「先玩一堂示例课」，进入互动预览。翻到第二页，选 crab 和 octopus，分别显示再试与答对反馈；跟读示例可切换 turtle，反馈示例可筛选「等老师听」。示例不录音、不评分、不修改实际课程。
 6. 预览下的「用我的材料做课件」「准备一份跟读作业」「打开我的课后反馈」仍接原有真实功能入口。切换预览应保留尚未提交的输入；Esc 关闭弹窗应返回原按钮。
 7. 手机点按操作相同，页面不应横向滚动；系统开启「减少动态效果」后，漂浮、视差、挥手停止，按钮功能保留。背景在打开弹窗、离开首页或切到其他标签后暂停。
 
 网页里的课堂玩法是交互示例，实际 PPT 仍通过现有儿童模板导出；本轮重绘网页插画不改动之前已验收的 PPT 模板。
+
+IP 核对：顶部 Biboo 标志、标题圆形徽章和底部角色均为原有紫色猫头鹰，不能出现上一版蓝色云团角色。

diff --git a/docs/evidence/阶段2-2/是否表.md b/docs/evidence/阶段2-2/是否表.md
@@ -2,15 +2,15 @@
 
 | # | 检查项 | 结果 |
 | --- | --- | --- |
-| 1 | 阶段功能 | 是（临时验收流程；发作业已由用户验收，场景首屏、背景交互及原功能衔接已检查，等待用户视觉体验） |
-| 2 | mock 自动化测试 | 是（58/58，2026-11-08 21:22 本轮自检，见 verify-输出.txt） |
+| 1 | 阶段功能 | 是（临时验收流程；发作业已由用户验收，原猫头鹰IP已恢复，显示与互动已检查） |
+| 2 | mock 自动化测试 | 是（58/58，2026-11-08 21:50 本轮自检，见 verify-输出.txt） |
 | 3 | 真实模型端到端冒烟 | 待验（当前交付模拟 Demo，真实评测后续校准，见 verify-输出.txt） |
 | 4 | 正式前端类型检查、Lint 和构建 | N/A（临时验收页，见 verify-输出.txt） |
 | 5 | 密钥排除 | 是（见 verify-输出.txt） |
-| 6 | 重启恢复 | 是（27745→27813，随机标记一致，见 verify-输出.txt） |
-| 7 | 桌面与移动端宽度 | N/A（临时验收页；本轮桌面、390px/320px 无横向溢出；背景视差/挥手、三模式、翻页答题、词汇/反馈筛选、材料导出、弹窗焦点和草稿保留均通过；减少动态停止角色和悬停运动） |
+| 6 | 重启恢复 | 是（35408→35491，随机标记一致，见 verify-输出.txt） |
+| 7 | 桌面与移动端宽度 | N/A（临时验收页；本轮桌面/390px检查原猫头鹰显示、挥翅、瞳孔响应和开始备课；减少动态关闭挥翅/眨眼；原场景和业务功能未改） |
 | 8 | README 启动与验证方法 | 是 |
 | 9 | 项目状态 | 是 |
 | 10 | 产出文件及位置 | 是（见 verify-输出.txt） |
 
-**阶段状态：发作业单项验收通过；Biboo 场景首屏已实测，等待用户复验。真实口语冒烟后置，正式阶段未通过。**
+**阶段状态：发作业单项验收通过；Biboo 原猫头鹰已恢复，等待用户查看。真实口语冒烟后置，正式阶段未通过。**

diff --git a/docs/本阶段任务.md b/docs/本阶段任务.md
@@ -1,8 +1,8 @@
 # 本阶段任务（流程管家自动生成，每次开工覆盖；AI 不要改这个文件）
 
 - 产品：Biboo（文件夹 projects/Biboo/）
-- 阶段：阶段2-2（本阶段第 8 次开工）
-- 生成时间：2026-11-08 21:07
+- 阶段：阶段2-2（本阶段第 9 次开工）
+- 生成时间：2026-11-08 21:45
 
 ## 先做
 1. 读工具包根目录的 AGENTS.md，按第 0 节启动流程处理这个产品（有 docs/项目状态.md 就是老项目，从它记录的地方接着做）。
